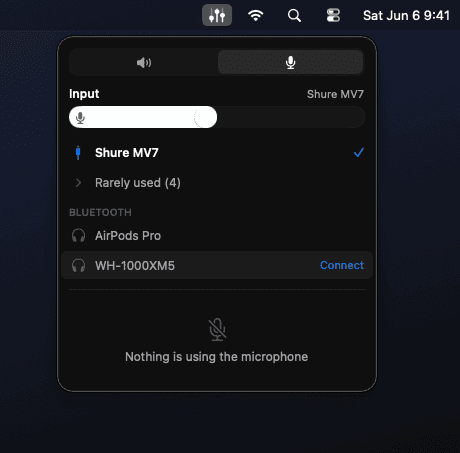
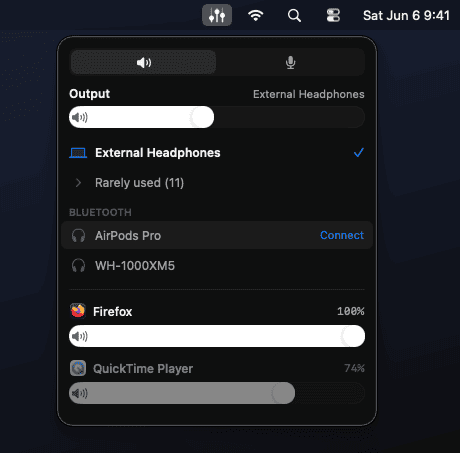
docs: README hero shows the output tab, not the mic tab

diff --git a/README.md b/README.md
@@ -4,7 +4,7 @@
 
 A macOS menu bar app for audio output switching and per-app volume. Switch the output device in one click, connect Bluetooth headphones, and set a separate volume for every app. Site: [fader.pantafive.dev](https://fader.pantafive.dev).
 
-<p align="center"><img src="docs/screenshot.png" alt="Fader popover under the menu bar: microphone tab with input devices and Bluetooth headsets"></p>
+<p align="center"><img src="docs/screenshot.png" alt="Fader popover under the menu bar: output devices, Bluetooth section, per-app volume faders"></p>
 
 It sends nothing anywhere: no telemetry, no analytics, no network code. Per-app volume is processed on-device through Core Audio process taps (an API added in macOS 14.4), so there is no kernel extension and no virtual audio driver to install. Requires macOS 15+ on Apple silicon.
 